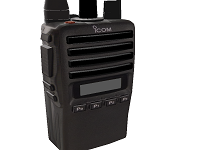
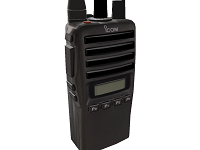
Adding tutorial and requirements to docs folder. Correcting cityblock and radio images for catalog page.
git-svn-id: http://svn.virtualworldframework.com/branches/integration@1072 775f9103-8eee-4f94-88be-65e0ca6d8b75

Changed region(s): [[0.18, 0.0, 0.69, 1.0]]

diff --git a/docs/tutorial.md b/docs/tutorial.md
@@ -1,0 +1,264 @@
+Tutorial
+==========================
+ 
+The goal of the following tutorial is to allow a developer to build an application from a simple primitive to small sandtable application. The tutorial is broken up into four stages, each building upon itself to create a more complex application.
+
+*   Stage 1 - Primitive Scene
+*   Stage 2 - Terrain Model and Orbit Navigation
+*   Stage 3 - Multiple Models and Behaviors
+*   Stage 4 - HTML Overlays and Interaction
+
+_____________________________________________________________________________________
+
+Stage 1 - Primitive Scene
+--------
+In the first stage, we'll add in a basic primitive collada file, and set up the initial camera position. The application will contain the default navigation of a walk mode.
+
+The following code creates a child node of the application named blueCube, of type node3, and defines the source file. In the scripts section, the camera position and rotation is initialized, and will be set during the application load. 
+
+	---
+	extends: http://vwf.example.com/navscene.vwf
+	children:
+	  blueCube:
+	    extends: http://vwf.example.com/node3.vwf
+	    source: models/BlueCube.dae
+	    type: model/vnd.collada+xml
+	scripts:
+	- |
+	  this.initialize = function() {
+	    this.camera.position = [ 0, -100, 0 ];
+	    this.camera.rotation = [ 1.56, 0, 0 ];
+	  }
+
+The above is all that is needed to create an application. The default walk mode allows the user to navigate with the standard WASD keys, as well as Q and E to rotate and R and C to move up and down. 
+
+Example: [Primitive Scene](http://vwf.orl.lmco.com/tutorial/00)
+
+_____________________________________________________________________________________
+
+Stage 2 - Terrain Model and Orbit Navigation
+--------
+In the second stage, we'll replace the blue cube with a higher fidelity terrain model, set some overall scene properties, and update the navigation mode to orbit around a single point. 
+
+Since the terrain model in this case is of a much higher fidelity, we can add some properties to set its position, rotation, and scale. 
+
+We can then add in some global properties. Here the active camera is explicitly defined, an RGB value is set for the background color to give the appearance of sky, and the navmode is set to 'orbit', as opposed to the default value of 'walk'. 
+
+For this navigation mode, we can add an additional child to the application, called 'sceneCenter', setting a translation property. This point will then be used to set the 'lookAt' property for the camera. Additional camera properties are set in the initialize function, including 'far' and 'near', setting up the clipping planes for this much larger terrain model. 
+
+	---
+	extends: http://vwf.example.com/navscene.vwf
+	properties:
+	  activeCamera: "http-vwf-example-com-camera-vwf-camera"
+	  backgroundColor: [ 83, 157, 194 ]
+	  navmode: "orbit"
+	children:
+	  flat_terrain:
+	    extends: http://vwf.example.com/node3.vwf
+	    source: models/vwf_terrain.dae
+	    type: model/vnd.collada+xml
+	    properties:
+	      translationnew: [ 0, 0, 0 ]
+	      rotationnew: [ 1, 0, 0, 0 ]
+	      scalenew: 0.008
+	  sceneCenter:
+	    extends: http://vwf.example.com/node3.vwf
+	    properties:
+	      translationnew: [ 0, 0, 0 ]
+	scripts:
+	- |
+	  this.initialize = function() {
+	    this.camera.position = [ 0, 20000, 10000 ];
+	    this.camera.rotation = [ 1.56, 0, 0 ];
+	    this.camera.far = 500000;
+	    this.camera.near = 2;
+	    this.camera.lookAt = "http-vwf-example-com-node3-vwf-sceneCenter";
+	  }
+
+In this application, the WASD controls can be used for navigation; however, the camera will continue to focus on the sceneCenter point.
+
+Example: [Terrain Model and Orbit Navigation](http://vwf.orl.lmco.com/tutorial/01)
+
+_____________________________________________________________________________________
+
+Stage 3 - Multiple Models and Behaviors
+--------
+In the third stage, we'll add a child group consisting of a predator vehicle, and a cone-shaped radar. A child is added called 'predGroup' and contains two children of its own - 'predator' and 'cone'. These are defined similarly to those above. 
+
+Finally, we'll apply a behavior to the 'predGroup', which is defined in a separate yaml file. Setting the property 'fly-flying' to true will enable the flying behavior immediately upon application load. 
+
+	---
+	extends: http://vwf.example.com/navscene.vwf
+	properties:
+	  activeCamera: "http-vwf-example-com-camera-vwf-camera"
+	  backgroundColor: [ 83, 157, 194 ]
+	  navmode: "orbit"
+	children:
+	  flat_terrain:
+	    extends: http://vwf.example.com/node3.vwf
+	    source: models/vwf_terrain.dae
+	    type: model/vnd.collada+xml
+	    properties:
+	      translationnew: [ 0, 0, 0 ]
+	      rotationnew: [ 1, 0, 0, 0 ]
+	      scalenew: 0.008
+	  sceneCenter:
+	    extends: http://vwf.example.com/node3.vwf
+	    properties:
+	      translationnew: [ 0, 0, 0 ]
+	  predGroup:
+	    extends: http://vwf.example.com/node3.vwf
+	    implements:
+	    - http://vwf.example.com/fly.vwf
+	    properties:
+	      fly-flying: true
+	    children:
+	      predator:
+	        extends: http://vwf.example.com/node3.vwf
+	        source: models/Predator.dae
+	        type: model/vnd.collada+xml
+	        properties:
+	          translationnew: [ 0, 500, 1800 ]
+	          rotationnew: [ 1, 0, 0, 0 ]
+	          scalenew: 50
+	      cone:
+	        extends: http://vwf.example.com/node3.vwf
+	        source: models/cone.dae
+	        type: model/vnd.collada+xml
+	        properties:
+	          translationnew: [ 0, -300, -1100 ]
+	          rotationnew: [ 1, 0, 0, 0 ]
+	          scalenew: [ 8, 8, 16 ]
+	scripts:
+	- |
+	  this.initialize = function() {
+	    this.camera.position = [ 0, 20000, 10000 ];
+	    this.camera.rotation = [ 1.56, 0, 0 ];
+	    this.camera.far = 500000;
+	    this.camera.near = 2;
+	    this.camera.lookAt = "http-vwf-example-com-node3-vwf-sceneCenter";
+	  }
+
+Example: [Multiple Models and Behaviors](http://vwf.orl.lmco.com/tutorial/02)
+
+_____________________________________________________________________________________
+
+Stage 4 - HTML Overlays and Interaction
+--------
+In the fourth stage, we'll add an HTML overlay to the application, and setup the javascript to allow the 2D HTML components interact with the 3D nodes. For this application, we'll create a toolbar of two images, one to select navigation mode, and one to select pindrop mode, where navigation will be disabled, and a click of the mouse will mark the location selected. 
+
+First, we'll create a file called 'application.vwf.html' that will load separately or on top of the application. The name must match that of the 'application.vwf.yaml' file, and the framework will automatically look for that file. We'll define the body with a simple HTML toolbar div containing the two button images. This will allow us to select either navigation mode, or pindrop mode. 
+
+In the yaml file, we'll add a mouseMode property with a setter. This property will determine whether the navmode is set to 'orbit' or turned off. We'll then add javascript variables and additional functions to drop the pins. The pushpin variable describes the child node that will be added, and will look similar to a child definition. The pointerUp function checks the navigation mode and will call the pindrop function if necessary to create the new node. 
+
+	---
+	extends: http://vwf.example.com/navscene.vwf
+	properties:
+	  activeCamera: "http-vwf-example-com-camera-vwf-camera"
+	  backgroundColor: [ 83, 157, 194 ]
+	  navmode: "orbit"
+	  mouseMode:
+	    set: |
+	      if( value == "orbit" ) {
+	        this.navmode = "orbit";
+	      } else {
+	        this.navmode = "none";
+	      }
+	    value: "orbit"
+	children:
+	  flat_terrain:
+	    extends: http://vwf.example.com/node3.vwf
+	    source: models/vwf_terrain.dae
+	    type: model/vnd.collada+xml
+	    properties:
+	      translationnew: [ 0, 0, 0 ]
+	      rotationnew: [ 1, 0, 0, 0 ]
+	      scalenew: 0.008
+	  sceneCenter:
+	    extends: http://vwf.example.com/node3.vwf
+	    properties:
+	      translationnew: [ 0, 0, 0 ]
+	  predGroup:
+	    extends: http://vwf.example.com/node3.vwf
+	    implements:
+	    - http://vwf.example.com/fly.vwf
+	    properties:
+	      fly-flying: true
+	    children:
+	      predator:
+	        extends: http://vwf.example.com/node3.vwf
+	        source: models/Predator.dae
+	        type: model/vnd.collada+xml
+	        properties:
+	          translationnew: [ 0, 500, 1800 ]
+	          rotationnew: [ 1, 0, 0, 0 ]
+	          scalenew: 50
+	      cone:
+	        extends: http://vwf.example.com/node3.vwf
+	        source: models/cone.dae
+	        type: model/vnd.collada+xml
+	        properties:
+	          translationnew: [ 0, -300, -1100 ]
+	          rotationnew: [ 1, 0, 0, 0 ]
+	          scalenew: [ 8, 8, 16 ]
+	scripts:
+	- |
+	  this.initialize = function() {
+	    this.camera.position = [ 0, 20000, 10000 ];
+	    this.camera.rotation = [ 1.56, 0, 0 ];
+	    this.camera.far = 500000;
+	    this.camera.near = 2;
+	    this.camera.lookAt = "http-vwf-example-com-node3-vwf-sceneCenter";
+	  }
+	  var pushpinIndex = 1;
+	  var pushpin = {
+	    extends: "http://vwf.example.com/node3.vwf",
+	    source: "models/pushpinblack.dae",
+	    type: "model/vnd.collada+xml",
+	    properties: {
+	      rotationnew: [ 1, 0, 0, 0 ],
+	      scalenew: 6
+	    },
+	  };
+	  this.pointerUp = function( parms, pickInfo ){
+	    if( this.mouseMode == "pindrop") {
+	        this.pindrop( pickInfo );
+	    }
+	  }
+	  this.pindrop = function( pickInfo ) {
+	    if ( pickInfo && pickInfo.globalPosition ) {
+	      pushpin.properties.position = pickInfo.globalPosition;
+
+	      var name = "pushpin"+pushpinIndex;
+	      this.children.create( pushpin, name );
+	      pushpinIndex++;
+	    }
+	  }
+
+Finally, back in the HTML file, we'll need to add a few javascript functions to highlight the appropriate button selected, as well as to set the global application property, mouseMode. The final thing to add is a listener for the mouseMode property. This will come into play if the mode is changed on another client, and the button highlighted is appropriately changed. 
+
+	function setMode(mode) {
+    	highlightMode(mode);
+        vwf_view.kernel.setProperty("index-vwf", "mouseMode", mode);
+  	}
+
+    function highlightMode(mode) {
+       	document.getElementById('orbit').style.border = "2px solid black";
+       	document.getElementById('pindrop').style.border = "2px solid black";
+
+       	document.getElementById(mode).style.border = "3px solid red";
+    }
+
+    vwf_view.satProperty = function (nodeId, propertyName, propertyValue) {
+      	if (nodeId == "index-vwf" ) {
+      		switch (propertyName) {
+      		  case "mouseMode":
+      		    highlightMode( propertyValue );
+      		    break;
+            }
+        }
+    }	  
+
+Example: [HTML Overlays and Interaction](http://vwf.orl.lmco.com/tutorial/03)
+
+_____________________________________________________________________________________

diff --git a/docs/reqs.md b/docs/reqs.md
@@ -1,0 +1,15 @@
+System Requirements
+==========================
+ 
+In order to successfully run the Virtual World Framework, the following browser requirements must be met:
+
+*   HTML5
+*   Browser with WebGL enabled
+*	Browser with WebSocket enabled for multi-user functionality (not on a corporate network)
+
+The following browsers are recommended for use:
+
+*   Chrome 7+
+*   Firefox 6+
+
+Portable version of Firefox with WebGL enabled: [Firefox Portable 9.0.1](http://sourceforge.net/projects/portableapps/files/Mozilla%20Firefox%2C%20Portable%20Ed./Mozilla%20Firefox%2C%20Portable%20Edition%209.0.1/FirefoxPortable_9.0.1_English.paf.exe/download)

diff --git a/docs/readme.md b/docs/readme.md
@@ -366,9 +366,4 @@ How to get started with your own instance of VWF
 *	Use VMware to host virtual instance of a VWF server
 *	Initialize personal server via a Linux Boot CD, where content is loaded from flash drive
 _____________________________________________________________________________________
-Browser Requirements
---------------------
-*	HTML5
-*	Browser with WebGL enabled (Chrome 7, Firefox 3, IE 9)
-*	Browser with WebSocket enabled for multi-user functionality (not on a corporate network)
-_____________________________________________________________________________________
+
